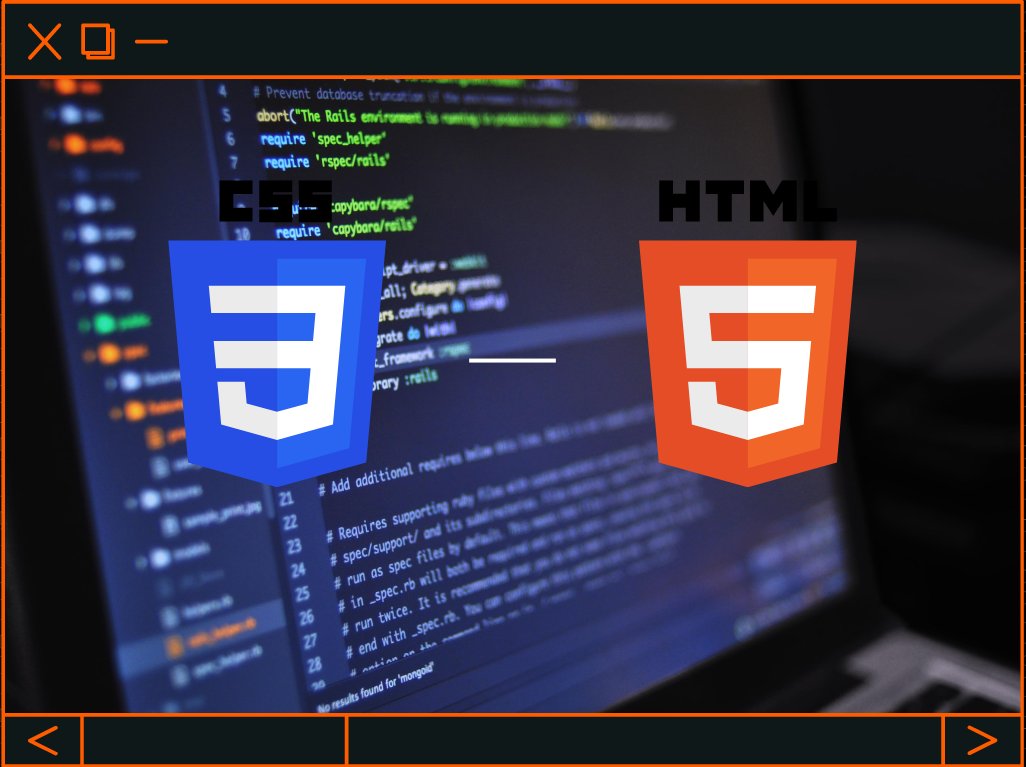
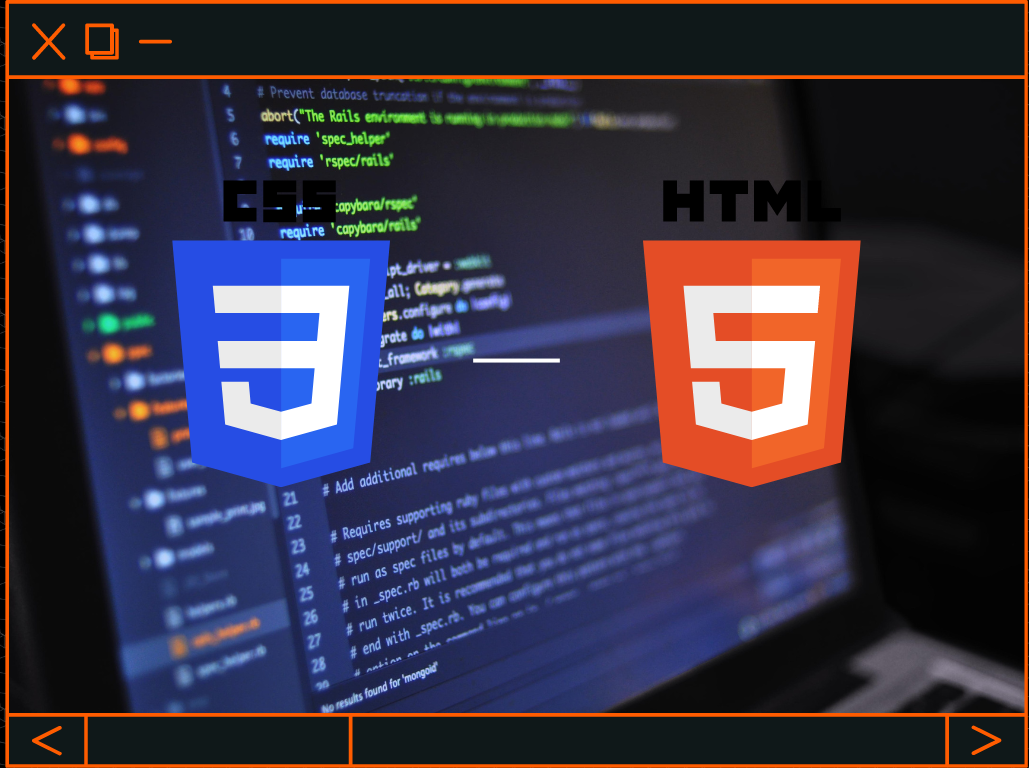
li

diff --git a/Index.css b/Index.css
@@ -500,7 +500,7 @@ h3{
     flex-direction: column;
     position: relative;
     top: 236px;
-    right: 13px;
+    right: 5px;
   }
   /* .none{
     display: inline;
